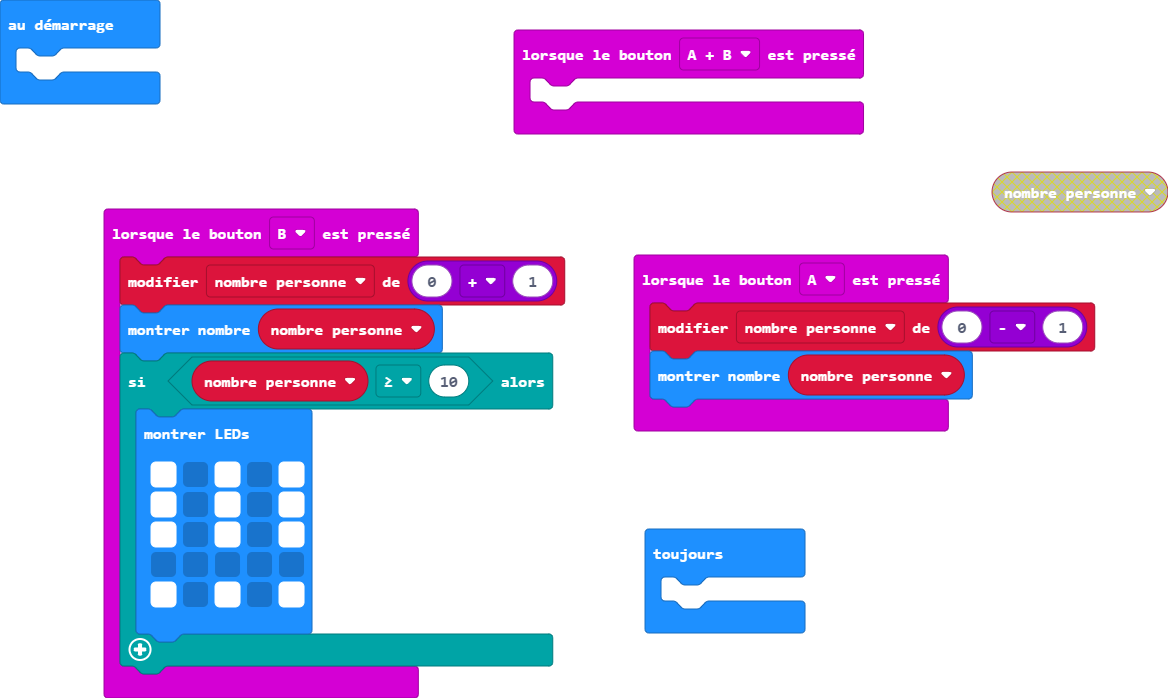
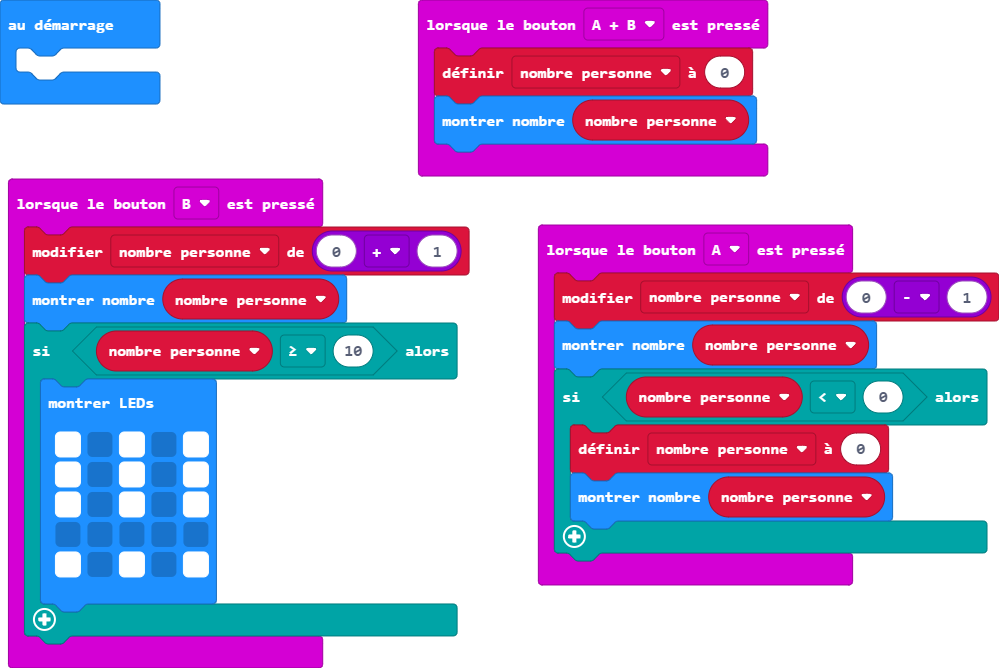
Mise à jour main.blocks, main.ts

diff --git a/main.ts b/main.ts
@@ -2,9 +2,14 @@ let nombre_personne = 0
 input.onButtonPressed(Button.A, function () {
     nombre_personne += 0 - 1
     basic.showNumber(nombre_personne)
+    if (nombre_personne < 0) {
+        nombre_personne = 0
+        basic.showNumber(nombre_personne)
+    }
 })
 input.onButtonPressed(Button.AB, function () {
-	
+    nombre_personne = 0
+    basic.showNumber(nombre_personne)
 })
 input.onButtonPressed(Button.B, function () {
     nombre_personne += 0 + 1
@@ -18,7 +23,4 @@ input.onButtonPressed(Button.B, function () {
             # . # . #
             `)
     }
-})
-basic.forever(function () {
-	
 })
